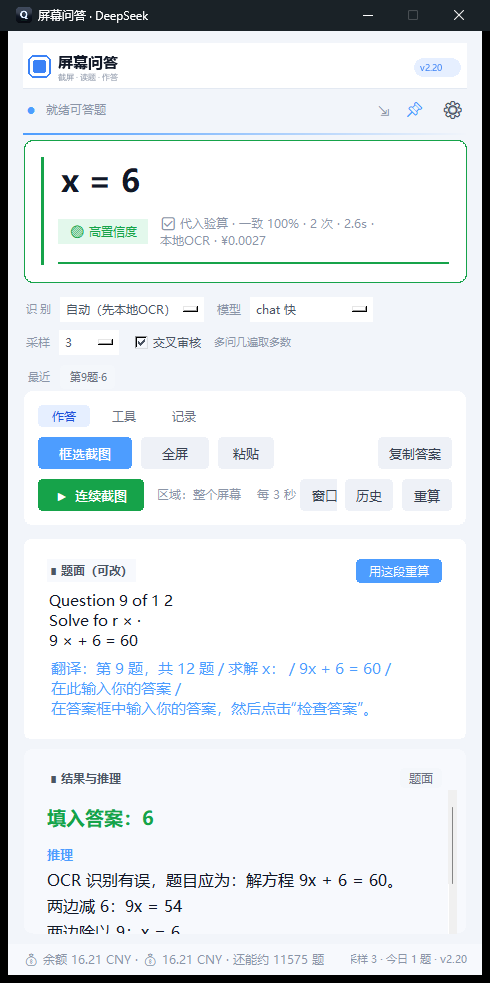
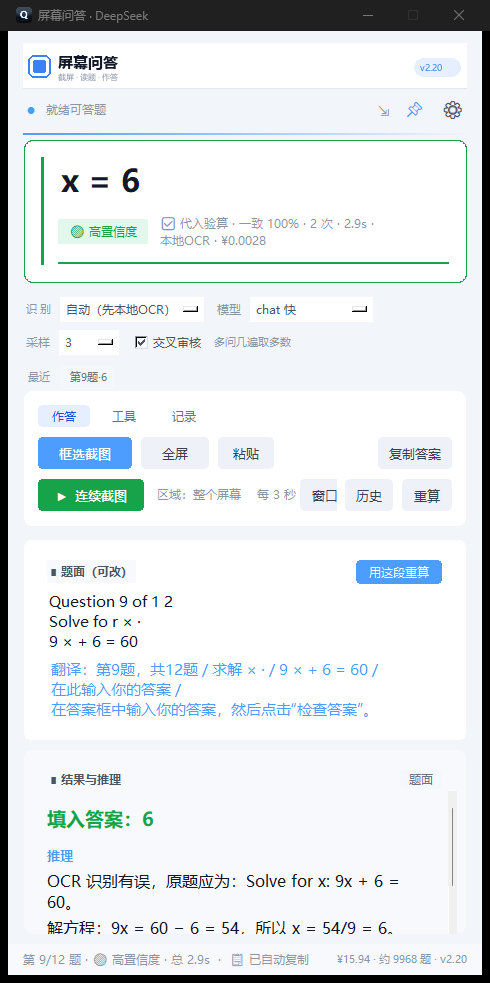
v2.20 收尾

diff --git a/app.py b/app.py
@@ -1461,12 +1461,13 @@ class App:
         # ---- 状态栏
         st = tk.Frame(self.root, bg=UI["card2"])
         st.pack(fill="x", side="bottom", before=wrap)
-        self.status = tk.Label(st, text="就绪", bg=UI["card2"], fg=UI["muted"],
-                               font=(FONT, 9), anchor="w")
-        self.status.pack(side="left", padx=12, pady=4)
+        # 右侧先占位（贴右不被挤），左侧状态过长时自行截断
         self.st_right = tk.Label(st, text="", bg=UI["card2"], fg=UI["muted"],
                                  font=(FONT, 8), anchor="e")
-        self.st_right.pack(side="right", padx=12)
+        self.st_right.pack(side="right", padx=12, pady=4)
+        self.status = tk.Label(st, text="就绪", bg=UI["card2"], fg=UI["muted"],
+                               font=(FONT, 9), anchor="w")
+        self.status.pack(side="left", fill="x", expand=True, padx=12, pady=4)
 
     def _show_page(self, name):
         """切到某一组按钮（作答 / 工具 / 记录）。"""
@@ -1522,17 +1523,22 @@ class App:
 
     def _refresh_status_meta(self):
         bits = []
-        try:
-            bits.append(str(self.model_var.get()))
-        except Exception:  # noqa: BLE001
-            pass
-        try:
-            bits.append("采样 " + str(self.samples_var.get()))
-        except Exception:  # noqa: BLE001
-            pass
+        _has_bal = bool(getattr(self, "_balance_text", ""))
+        if not _has_bal:
+            try:
+                bits.append("采样 " + str(self.samples_var.get()))
+            except Exception:  # noqa: BLE001
+                pass
         n = getattr(self, "_today_count", 0)
-        if n:
+        if n and not getattr(self, "_balance_text", ""):
             bits.append(f"今日 {n} 题")
+        _bal = getattr(self, "_balance_text", "")
+        if _bal:
+            bits.append(_bal)
+        if not _has_bal:
+            n0 = getattr(self, "_today_count", 0)
+            if n0:
+                pass
         bits.append(prompts.VERSION_LABEL)
         if hasattr(self, "st_right"):
             self.st_right.configure(text=" · ".join(bits))
@@ -2072,6 +2078,14 @@ class App:
                 kind, payload = self.q.get_nowait()
                 if kind == "log":
                     self.log(str(payload))
+                elif kind == "balance":
+                    try:
+                        self._balance_text = f"\u00a5{payload['amount']:.2f}"
+                        if payload.get("n"):
+                            self._balance_text += f" \u00b7 \u7ea6 {payload['n']} \u9898"
+                    except Exception:  # noqa: BLE001
+                        self._balance_text = ""
+                    self._refresh_status_meta()
                 elif kind == "status":
                     self.set_status(str(payload))
                 elif kind == "busy":
@@ -3244,14 +3258,15 @@ class App:
                 info = client.balance()
                 stats = cfg_mod.daily_stats(self.cfg)
                 avg = float(stats.get("avg_cost") or 0)
-                left = ""
-                if avg > 0 and info.get("amount"):
-                    left = f" · \U0001F4B0 {info['amount']:.2f} {info.get('currency', 'CNY')}" \
-                           f" · 还能约 {int(info['amount'] / avg)} 题"
-                text = (f"余额 {info.get('amount', 0):.2f} {info.get('currency', 'CNY')}"
-                        f"{left}\n今日 {stats['count']} 题 · 约 ¥{stats['cost']:.4f} · "
+                amount = float(info.get("amount") or 0)
+                cur = info.get("currency", "CNY")
+                n_left = int(amount / avg) if avg > 0 else 0
+                text = (f"余额 {amount:.2f} {cur}"
+                        + (f"，约还能做 {n_left} 题" if n_left else "") +
+                        f"\n今日 {stats['count']} 题 · 约 ¥{stats['cost']:.4f} · "
                         f"{stats['tokens_in'] + stats['tokens_out']} tokens")
-                self.q.put(("log", f"💰 {text.split(chr(10))[0]}"))
+                self.q.put(("balance", {"amount": amount, "cur": cur, "n": n_left}))
+                self.note(f"💰 {text.split(chr(10))[0]}")
                 if not silent:
                     self.root.after(0, lambda: messagebox.showinfo("余额与今日花费", text))
             except Exception as exc:  # noqa: BLE001
